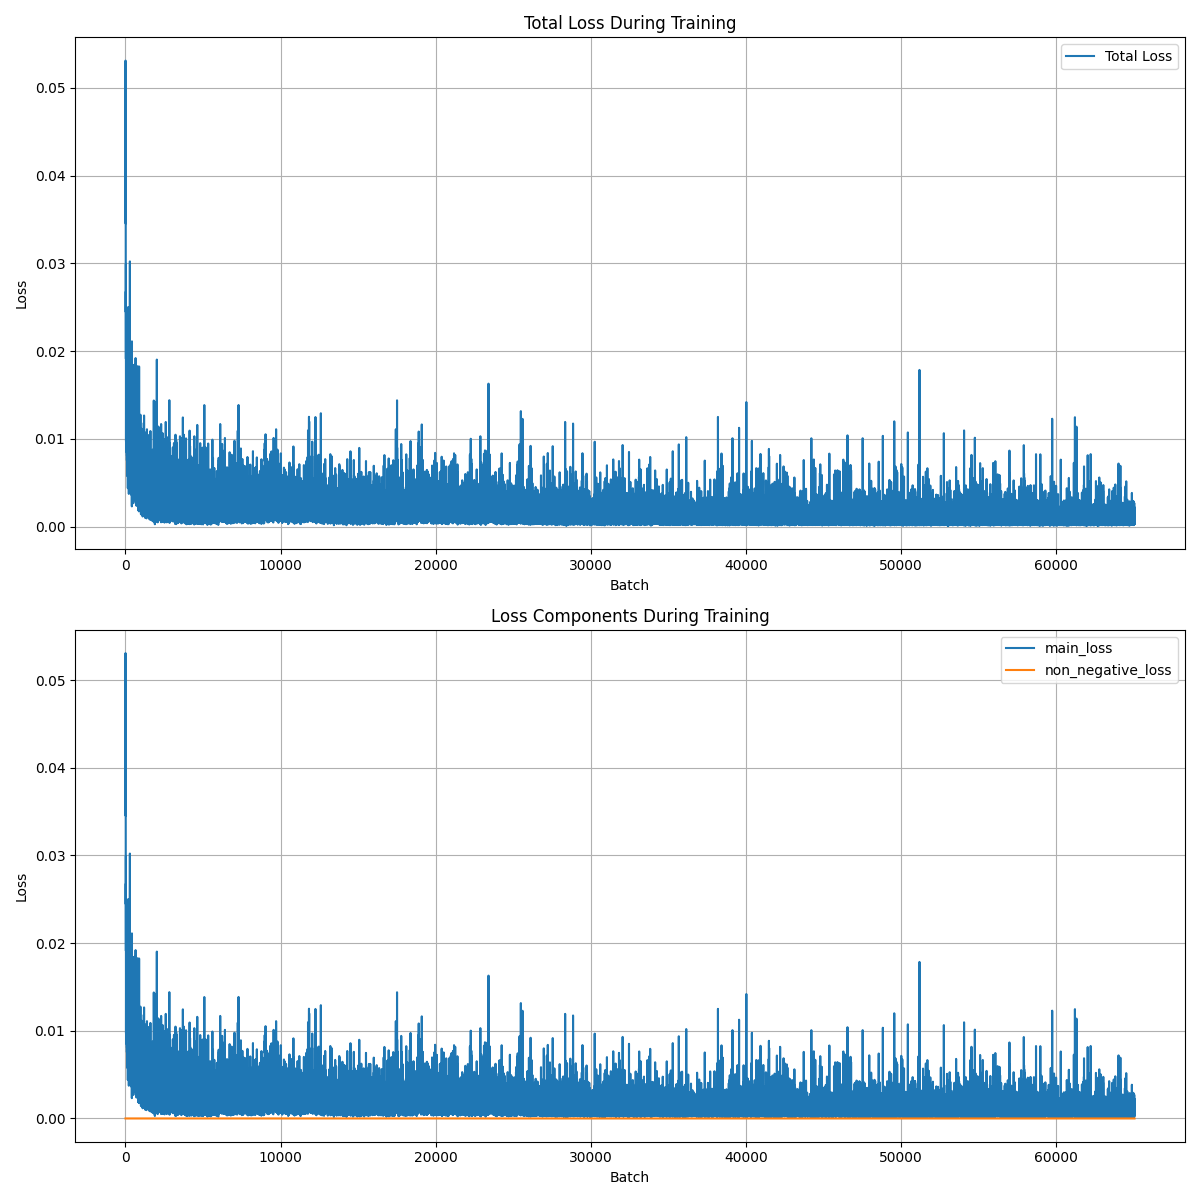
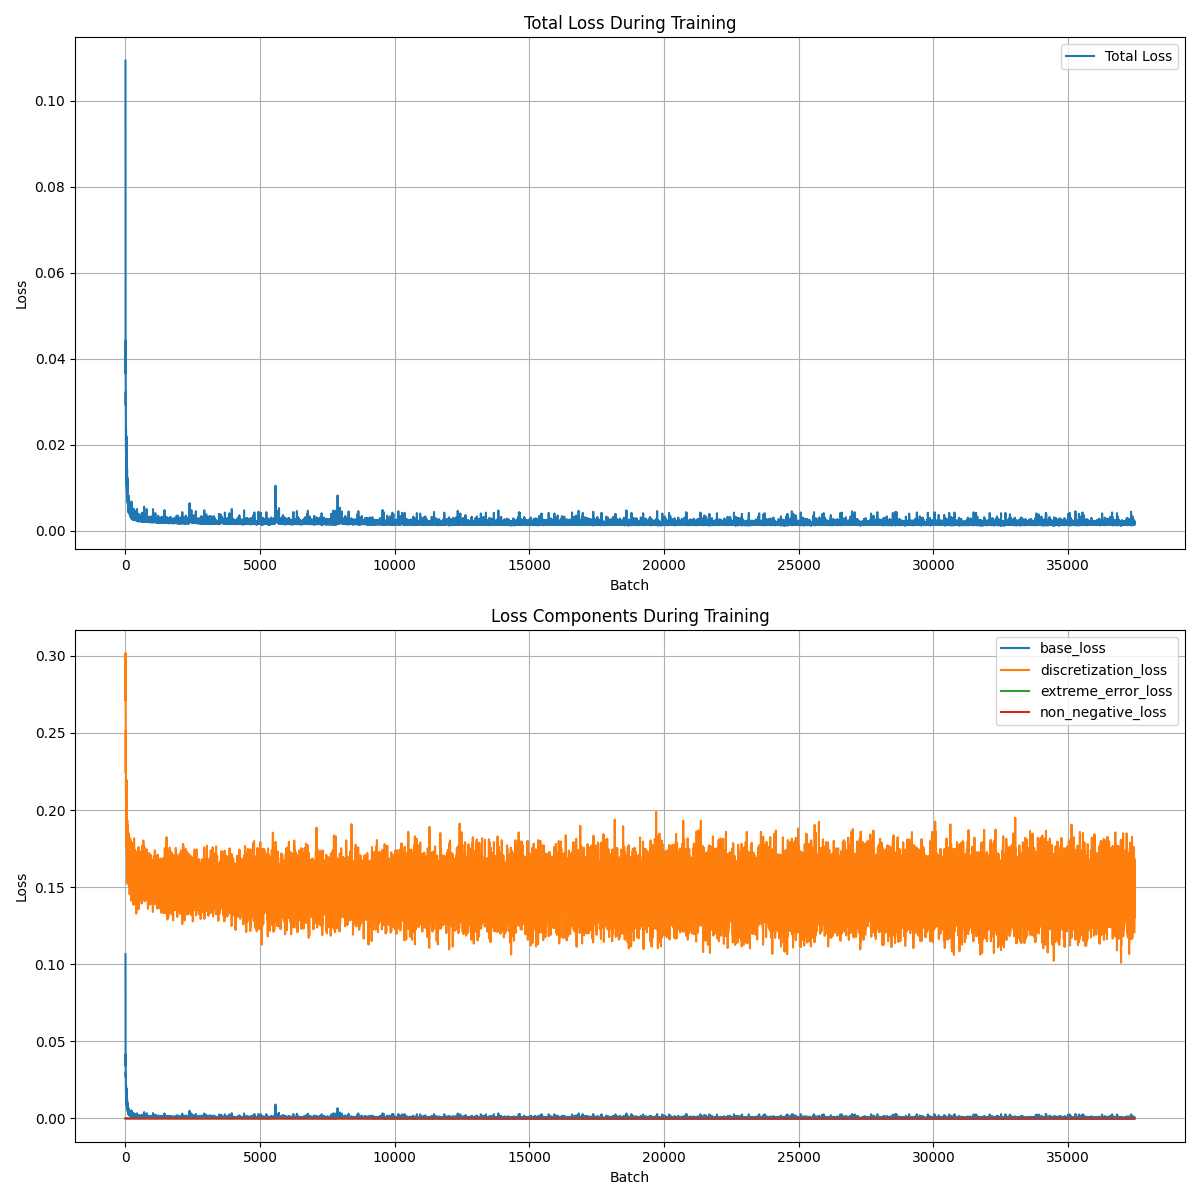
good2

diff --git a/power_control/predictor/trainer.py b/power_control/predictor/trainer.py
@@ -16,18 +16,55 @@ plt.switch_backend('agg')
 class CustomEnergyLoss(nn.Module):
     def __init__(self):
         super().__init__()
+        self.mse_loss = nn.MSELoss()
     
     def forward(self, y_pred, y_true):
-        # 使用Huber损失作为主要损失函数
-        main_loss = F.huber_loss(y_pred, y_true, delta=0.1)
+        # 检查并处理无效值
+        if torch.isnan(y_pred).any() or torch.isinf(y_pred).any():
+            print("警告：预测值中存在 NaN 或 Inf")
+            y_pred = torch.nan_to_num(y_pred, nan=0.0, posinf=1e6, neginf=-1e6)
         
-        # 添加非负约束
-        non_negative_loss = torch.mean(F.relu(-y_pred))
+        # 基础损失：使用 Huber Loss 代替 MSE，对异常值更不敏感
+        base_loss = F.huber_loss(y_pred, y_true, delta=1.0)
         
-        total_loss = main_loss + 5.0 * non_negative_loss
+        # 离散化损失：添加数值稳定性处理
+        discretization_loss = torch.mean(
+            torch.clamp(torch.abs(y_pred - torch.round(y_pred)), max=10.0)
+        )
+        
+        # 极端误差惩罚：添加上下限
+        error = torch.clamp(torch.abs(y_pred - y_true), max=50.0)
+        extreme_error_mask = error > 10
+        extreme_error_loss = torch.mean(
+            torch.where(extreme_error_mask, error, torch.zeros_like(error))
+        )
+        
+        # 非负约束：添加上限
+        non_negative_loss = torch.mean(
+            torch.clamp(F.relu(-y_pred), max=10.0)
+        )
+        
+        # 使用较小的权重系数
+        total_loss = base_loss + \
+                    0.01 * discretization_loss + \
+                    0.05 * extreme_error_loss + \
+                    0.1 * non_negative_loss
+        
+        # 检查损失值
+        if torch.isnan(total_loss) or torch.isinf(total_loss):
+            print("警告：损失值为 NaN 或 Inf")
+            print(f"Base Loss: {base_loss.item()}")
+            print(f"Discretization Loss: {discretization_loss.item()}")
+            print(f"Extreme Error Loss: {extreme_error_loss.item()}")
+            print(f"Non-negative Loss: {non_negative_loss.item()}")
+            
+            # 如果发生 NaN，返回一个可以继续训练的值
+            total_loss = torch.tensor(1.0, device=total_loss.device, requires_grad=True)
         
         return total_loss, {
-            'main_loss': main_loss.item(),
+            'base_loss': base_loss.item(),
+            'discretization_loss': discretization_loss.item(),
+            'extreme_error_loss': extreme_error_loss.item(),
             'non_negative_loss': non_negative_loss.item(),
             'total_loss': total_loss.item()
         }
@@ -39,9 +76,11 @@ class Trainer:
         self.data_processor = DataProcessor()
         self.model = None
         self.criterion = CustomEnergyLoss()
-        # 更新损失历史记录的组件，匹配新的损失函数返回值
+        # 更新损失历史记录的组件
         self.loss_history = {
-            'main_loss': [],
+            'base_loss': [],
+            'discretization_loss': [],
+            'extreme_error_loss': [],
             'non_negative_loss': [],
             'total_loss': []
         }
@@ -50,48 +89,45 @@ class Trainer:
         """训练模型并记录训练过程"""
         print(f"开始在设备 {self.device} 上训练模型")
         
+        # 初始化模型
+        self.model = NodePredictorNN(
+            feature_size=self.data_processor.feature_size
+        ).to(self.device)
+        
+        # 创建数据加载器
         data_loaders = MyDataLoader().create_data_loaders(
             data_dict,
             self.config['batch_size']
         )
         
-        self.model = NodePredictorNN(
-            feature_size=self.data_processor.feature_size
-        ).to(self.device)
-        
+        # 优化器和学习率调度器
         optimizer = torch.optim.AdamW(
             self.model.parameters(),
             lr=self.config['learning_rate'],
-            weight_decay=1e-4  # 增加权重衰减
+            weight_decay=1e-4
         )
         
         scheduler = torch.optim.lr_scheduler.ReduceLROnPlateau(
-            optimizer, 
-            mode='min', 
-            factor=0.2,  # 更激进的学习率衰减
-            patience=3,   # 减少耐心值
-            min_lr=1e-6
+            optimizer,
+            mode='min',
+            factor=self.config['lr_factor'],
+            patience=self.config['lr_patience'],
+            min_lr=self.config['min_lr']
         )
         
         best_val_loss = float('inf')
+        best_model_state = None
         patience_counter = 0
-        
-        # 记录训练历史
-        history = {
-            'train_loss': [],
-            'val_loss': [],
-            'learning_rates': []
-        }
         
         for epoch in range(1, self.config['epochs'] + 1):
             # 训练阶段
             self.model.train()
             train_loss = 0
             batch_count = len(data_loaders['train'])
-            total_epochs = self.config['epochs']
+            
             print(f"\n正在训练 Epoch {epoch}/{self.config['epochs']}")
             print("进度: ", end="")
-        
+            
             for batch_idx, batch in enumerate(data_loaders['train'], 1):
                 optimizer.zero_grad()
                 
@@ -105,17 +141,25 @@ class Trainer:
                 
                 # 记录损失组件
                 for key, value in loss_components.items():
-                    self.loss_history[key].append(value)
+                    if key in self.loss_history:  # 确保键存在
+                        self.loss_history[key].append(value)
                 
                 loss.backward()
-                torch.nn.utils.clip_grad_norm_(self.model.parameters(), max_norm=1.0)
+                
+                # 使用配置中的梯度裁剪参数
+                if self.config['grad_clip'] > 0:
+                    torch.nn.utils.clip_grad_norm_(
+                        self.model.parameters(), 
+                        self.config['grad_clip']
+                    )
+                
                 optimizer.step()
                 
                 train_loss += loss_components['total_loss']
                 
                 progress = int(50 * batch_idx / batch_count)
                 print(f"\r进度: [{'=' * progress}{' ' * (50-progress)}] {batch_idx}/{batch_count} "
-                    f"- 当前 loss: {loss_components['total_loss']:.6f}", end="")
+                      f"- 当前 loss: {loss_components['total_loss']:.6f}", end="")
             
             train_loss /= len(data_loaders['train'])
             
@@ -127,30 +171,38 @@ class Trainer:
             current_lr = optimizer.param_groups[0]['lr']
             
             # 记录历史
-            history['train_loss'].append(train_loss)
-            history['val_loss'].append(val_loss)
-            history['learning_rates'].append(current_lr)
+            history = {
+                'train_loss': [train_loss],
+                'val_loss': [val_loss],
+                'learning_rates': [current_lr]
+            }
             
-            print(f"\nEpoch {epoch}: Train Loss = {train_loss:.6f}, "
-                  f"Val Loss = {val_loss:.6f}, "
-                  f"LR = {current_lr}")
-            
-            # 早停检查
+            # 保存最佳模型
             if val_loss < best_val_loss:
                 best_val_loss = val_loss
+                best_model_state = self.model.state_dict().copy()
                 patience_counter = 0
-                # 保存最佳模型
+
                 self.save_model(optimizer, scheduler)
-                print(f"Epoch {epoch}: Val Loss improved to {val_loss:.6f}. 模型已保存。")
+                print(f"发现更好的模型！已保存模型")
             else:
                 patience_counter += 1
-                print(f"Epoch {epoch}: Val Loss = {val_loss:.6f} 不改善。")
-                
-                if patience_counter >= self.config['early_stopping_patience']:
-                    print(f"早停触发于 epoch {epoch}")
-                    break
             
-            print(f"Epoch {epoch}: Train Loss = {train_loss:.6f}, Val Loss = {val_loss:.6f}, LR = {optimizer.param_groups[0]['lr']:.6f}")
+            # 打印详细的训练信息
+            print(f"\nEpoch {epoch}")
+            print(f"Train Loss: {train_loss/batch_count:.6f}")
+            print(f"Val Loss: {val_loss:.6f}")
+            print(f"Learning Rate: {current_lr:.6f}")
+            print(f"Best Val Loss: {best_val_loss:.6f}")
+            
+            # 早停检查
+            if patience_counter >= self.config['early_stopping_patience']:
+                print("Early stopping triggered")
+                break
+        
+        # 恢复最佳模型
+        if best_model_state is not None:
+            self.model.load_state_dict(best_model_state)
         
         # 绘制训练历史
         train_log_dir = self.config['log_dir']
@@ -244,7 +296,7 @@ class Trainer:
         ax1.grid(True)
         
         # 绘制损失组件
-        for key in ['main_loss', 'non_negative_loss']:  # 添加新的损失组件
+        for key in ['base_loss', 'discretization_loss', 'extreme_error_loss', 'non_negative_loss']:  # 添加新的损失组件
             ax2.plot(self.loss_history[key], label=key)
         ax2.set_title('Loss Components During Training')
         ax2.set_xlabel('Batch')

diff --git a/power_control/predictor/model.py b/power_control/predictor/model.py
@@ -6,8 +6,9 @@ class NodePredictorNN(nn.Module):
     def __init__(self, feature_size):
         super().__init__()
         
-        # 保持编码器部分不变
+        # 1. 历史序列编码器
         self.past_encoder = nn.Sequential(
+            # 1D卷积层处理时序特征
             nn.Conv1d(feature_size, 64, kernel_size=3, padding=1),
             nn.ReLU(),
             nn.BatchNorm1d(64),
@@ -21,15 +22,15 @@ class NodePredictorNN(nn.Module):
             nn.Conv1d(128, 256, kernel_size=3, padding=1),
             nn.ReLU(),
             nn.BatchNorm1d(256),
-            
+            # 自注意力机制处理长序列依赖
             SelfAttention(256),
-            
+            # 全局池化
             nn.AdaptiveAvgPool1d(1)
         )
         
-        # 其他编码器保持不变
+        # 2. 时间特征编码器
         self.datetime_encoder = nn.Sequential(
-            nn.Linear(3, 64),
+            nn.Linear(3, 64), # 处理时、日、周特征
             nn.ReLU(),
             nn.BatchNorm1d(64),
             nn.Dropout(0.2),
@@ -39,8 +40,9 @@ class NodePredictorNN(nn.Module):
             nn.Dropout(0.2)
         )
         
+        # 3. 历史模式编码器
         self.dayback_encoder = nn.Sequential(
-            nn.Linear(8, 64),
+            nn.Linear(8, 64), # 处理历史同时段特征
             nn.ReLU(),
             nn.BatchNorm1d(64),
             nn.Dropout(0.2),
@@ -62,17 +64,21 @@ class NodePredictorNN(nn.Module):
             nn.Dropout(0.2)
         )
         
-        # 改用单个预测器，直接预测节点数量
+        # 修改预测头，添加离散化处理
         self.predictor = nn.Sequential(
             nn.Linear(256, 128),
             nn.ReLU(),
-            nn.BatchNorm1d(128),
+            nn.LayerNorm(128),
             nn.Dropout(0.2),
+            
             nn.Linear(128, 64),
             nn.ReLU(),
-            nn.BatchNorm1d(64),
+            nn.LayerNorm(64),
+            nn.Dropout(0.2),
+            
             nn.Linear(64, 1),
-            nn.ReLU()  # 使用ReLU确保预测值非负
+            # 添加激活函数限制输出范围
+            nn.Softplus()  # 确保输出非负且数值稳定
         )
         
     def forward(self, past_hour, cur_datetime, dayback):
@@ -90,8 +96,11 @@ class NodePredictorNN(nn.Module):
         combined = torch.cat([past_features, datetime_features, dayback_features], dim=1)
         fused = self.fusion(combined)
         
-        # 直接预测节点数量
-        pred = self.predictor(fused)
+        # 获取基础预测值
+        base_pred = self.predictor(fused)
+        
+        # 限制预测范围，增加数值稳定性
+        pred = torch.clamp(base_pred, min=0.0, max=1000.0)
         
         return pred
 

diff --git a/power_control/predictor/config.py b/power_control/predictor/config.py
@@ -14,12 +14,16 @@ os.makedirs(LOG_DIR, exist_ok=True)
 # 模型配置
 MODEL_CONFIG = {
     'epochs': 100,
-    'batch_size': 32,
+    'batch_size': 128,
     'learning_rate': 0.001,
-    'early_stopping_patience': 10,
+    'min_lr': 1e-6,
+    'lr_patience': 5,
+    'lr_factor': 0.5,
+    'early_stopping_patience': 15,
     'lookback_minutes': 4 * 60,
     'forecast_minutes': 30,
     'model_dir': MODEL_DIR,
     'data_path': os.path.join(DATA_DIR, 'training_data_20250120_190101.csv'),
     'log_dir': LOG_DIR,
+    'grad_clip': 1.0
 }
